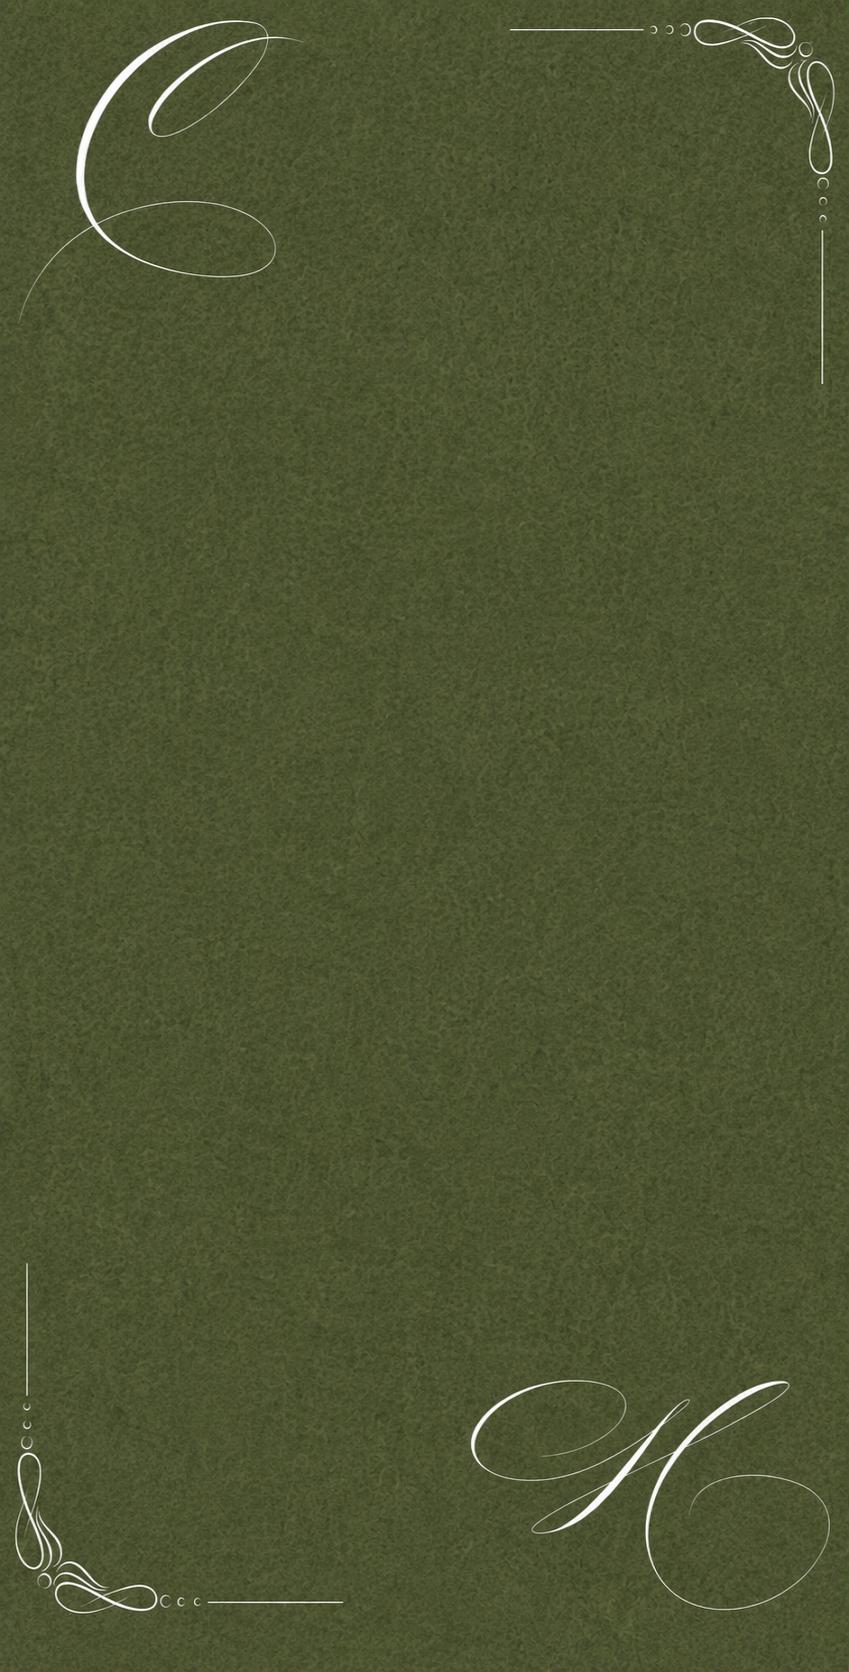
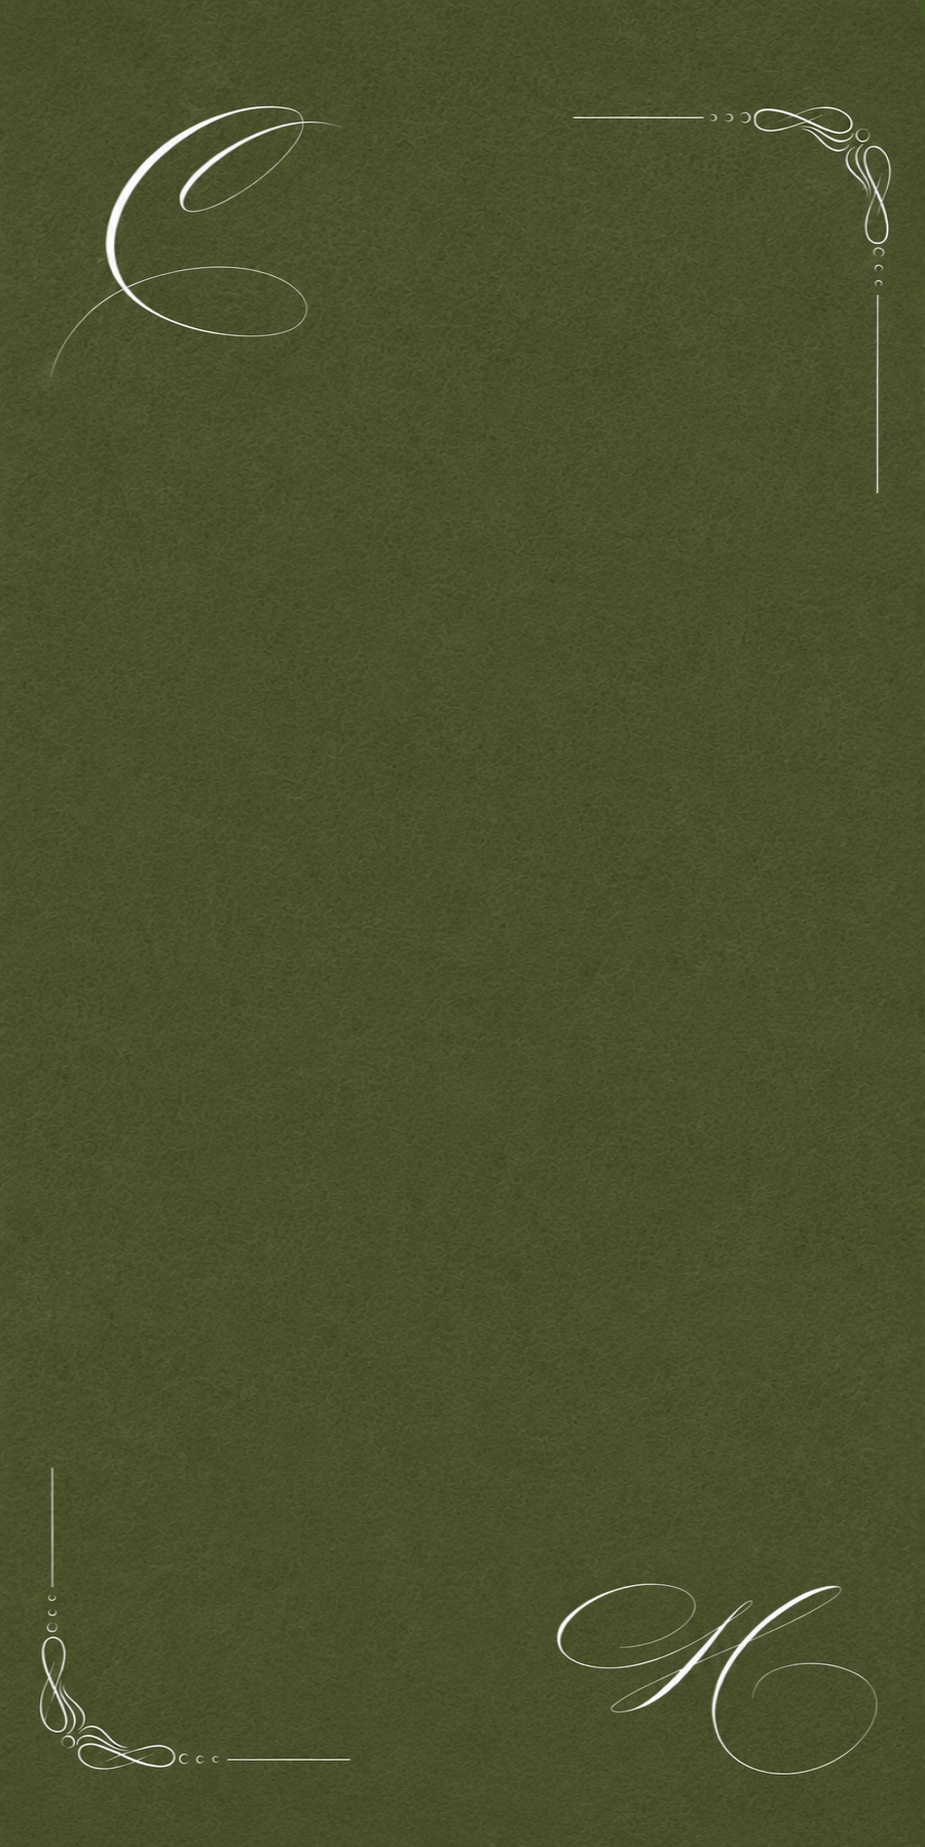
Family section layout, schedule update, protection fix & misc tweaks
- Family couple: split names per word, centred in each half, max-width 300px
- Couple names font size increased
- Background: portrait 100%/100%, landscape cover
- Timeline: 4 new events with EN/VI translations
- Footer: music credit converted to HTML comment
- protect.js: fix stray '1' breaking console warn

diff --git a/js/main.js b/js/main.js
@@ -218,15 +218,20 @@ const i18n = {
     'dress-value':          'Dress Your Best',
     'dress-sub':            'Formal Attire Requested',
     'timeline-title':       'Ceremony Schedule',
-    'ev-ceremony':          'Ceremony',
-    'ev-cocktail':          'Cocktail Hour',
-    'ev-cocktail-place':    'Garden Terrace',
-    'ev-reception':         'Reception',
+    'ev-time-1':            '10:00 AM',
+    'ev-time-2':            '11:00 AM',
+    'ev-time-3':            '11:30 AM',
+    'ev-time-4':            '1:00 PM',
+    'ev-welcome':           'Welcome Reception',
+    'ev-welcome-place':     'PhotoBooth & Backdrop Photography',
+    'ev-lunch':             'Lunch Serving',
+    'ev-ceremony':          'Ceremony Begins',
+    'ev-reception':         'Wedding Reception & Celebration',
     'rsvp-eyebrow':         'Kindly Reply At your convenience',
     'rsvp-title':           'Will You Join Us?',
     'label-name':           'Full Name',
     'ph-name':              'Your full name',
-    'label-side':           'Which side are you attending?',
+    'label-side':           'Which side are you attending with?',
     'opt-bride-side':       "Bride's Side",
     'opt-groom-side':       "Groom's Side",
     'label-phone':          'Phone Number',
@@ -238,7 +243,7 @@ const i18n = {
     'label-guests':         'Number of Guests',
     'ph-guests':            'Enter number of guests',
     'label-dietary':        'Leave us a message',
-    'ph-dietary':           'Spe cial request',
+    'ph-dietary':           'Special request',
     'btn-rsvp':             'Send RSVP',
     'footer-date':          'December 17, 2026 · Hanoi City',
     'footer-made':          'Your presence is truly the most meaningful gift on our special day.',
@@ -249,13 +254,17 @@ const i18n = {
     'family-groom-father':  'Mr. Le Van Sinh',
     'family-groom-mother':  'Mrs. Nguyen Thi Huong',
     'family-groom-name':    'Hung Le',
+    'family-groom-p1':      'Hung',
+    'family-groom-p2':      'Le',
     'family-bride-name':    'Cathy Chu',
+    'family-bride-p1':      'Cathy',
+    'family-bride-p2':      'Chu',
     'date-value-main':      'December 17',
     'venue-name':           'Long Vi Palace',
     'venue-sub':            '3A Dao Duy Anh st, Kim Lien, Hanoi · 12:00 PM',
   },
   vi: {
-    'hero-eyebrow':         'Chung vui cùng chúng mình trong ngày đặc biệt',
+    'hero-eyebrow':         'Celebrating our special day',
     'flap-date':            '17 · Tháng 12 · 2026',
     'scroll-cue':           'cuộn để mở',
     'wedding-date':         'Thứ Năm · 17 Tháng 12 · 2026',
@@ -272,10 +281,15 @@ const i18n = {
     'dress-value':          'Lịch Sự',
     'dress-sub':            'Trang phục trang trọng',
     'timeline-title':       'Chương trình chi tiết',
-    'ev-ceremony':          'Lễ Thành Hôn',
-    'ev-cocktail':          'Tiệc Cocktail',
-    'ev-cocktail-place':    'Sân Vườn',
-    'ev-reception':         'Tiệc Cưới',
+    'ev-time-1':            '10:00',
+    'ev-time-2':            '11:00',
+    'ev-time-3':            '11:30',
+    'ev-time-4':            '13:00',
+    'ev-welcome':           'Đón Khách',
+    'ev-welcome-place':     'PhotoBooth & Backdrop',
+    'ev-lunch':             'Khai Tiệc',
+    'ev-ceremony':          'Nghi Thức Thành Hôn',
+    'ev-reception':         'Tiệc Mừng & Giao Lưu',
     'rsvp-eyebrow':         'Kindly Reply At your convenience',
     'rsvp-title':           'Bạn Sẽ Tham Dự Chứ?',
     'label-name':           'Họ và Tên',
@@ -303,7 +317,11 @@ const i18n = {
     'family-groom-father':  'Ông Lê Văn Sinh',
     'family-groom-mother':  'Bà Nguyễn Thị Hương',
     'family-groom-name':    'Gia Hưng',
+    'family-groom-p1':      'Gia',
+    'family-groom-p2':      'Hưng',
     'family-bride-name':    'Cathy Hà Linh',
+    'family-bride-p1':      'Hà',
+    'family-bride-p2':      'Linh',
     'date-value-main':      '17 Tháng 12',
     'venue-name':           'Long Vĩ',
     'venue-sub':            '3A Phố Đào Duy Anh, Kim Liên, Hà Nội · 12:00 trưa',

diff --git a/css/style.css b/css/style.css
@@ -124,9 +124,14 @@ body::after {
   inset: 0;
   z-index: 0;
   background: url('../images/couple.png')
-    center / cover no-repeat;
+    center / 100% 100% no-repeat;
   opacity: 0;
   will-change: opacity;
+}
+@media (orientation: landscape) {
+  #couple-bg {
+    background-size: cover;
+  }
 }
 
 #particles {
@@ -137,7 +142,7 @@ body::after {
 }
 
 #hero {
-  height: 320vh;
+  height: 200vh;
   position: relative;
 }
 #hero-sticky {
@@ -480,14 +485,14 @@ body::after {
 #sec-family {
   background: var(--cream);
   text-align: center;
-  padding: clamp(56px, 9vw, 110px) clamp(20px, 5vw, 60px);
+  padding: clamp(28px, 4.5vw, 56px) clamp(20px, 5vw, 60px);
 }
 .family-grid {
   display: flex;
   align-items: flex-start;
   justify-content: center;
   max-width: 680px;
-  margin: 0 auto clamp(40px, 6vw, 64px);
+  margin: 0 auto clamp(20px, 3vw, 36px);
 }
 .family-side {
   flex: 1;
@@ -525,7 +530,7 @@ body::after {
   color: var(--warm);
   line-height: 1.9;
   max-width: 600px;
-  margin: 0 auto clamp(36px, 5vw, 58px);
+  margin: 0 auto clamp(18px, 2.5vw, 32px);
   opacity: .88;
 }
 .family-couple {
@@ -533,19 +538,35 @@ body::after {
   align-items: center;
   justify-content: center;
   gap: 0;
-  flex-wrap: wrap;
+  width: 100%;
+  max-width: 300px;
+  margin: 0 auto;
+}
+.family-bride-half {
+  flex: 1;
+  display: flex;
+  flex-direction: column;
+  align-items: center;
+  text-align: center;
+}
+.family-groom-half {
+  flex: 1;
+  display: flex;
+  flex-direction: column;
+  align-items: center;
+  text-align: center;
 }
 .family-groom,
 .family-bride {
   font-family: 'Madelyn', 'Great Vibes', cursive;
-  font-size: clamp(44px, 8vw, 78px);
+  font-size: clamp(56px, 10.5vw, 100px);
   color: #5E7848;
   line-height: 1.1;
 }
 .family-amp {
   font-family: 'Cormorant Garamond', serif;
   font-style: italic;
-  font-size: clamp(28px, 4.5vw, 50px);
+  font-size: clamp(36px, 6vw, 64px);
   color: var(--champ);
   margin: 0 clamp(10px, 2vw, 20px);
   line-height: 1;
@@ -945,6 +966,8 @@ footer {
 
 @media (max-width: 480px) {
   .fc-main { font-size: clamp(36px, 12vw, 56px); }
+  .family-name { font-size: 11px; letter-spacing: 0; }
+  .family-side { padding: 0 8px; }
 }
 
 .loader-lang-btns {

diff --git a/index.html b/index.html
@@ -142,9 +142,15 @@
     </div>
     <p class="family-message fu" data-i18n="family-message">Together with our families, we sincerely invite you to join us in celebrating our wedding ceremony and to share in the joy of this special occasion.</p>
     <div class="family-couple fu">
-      <span class="family-groom" data-i18n="family-groom-name">Hung Le</span>
+      <div class="family-bride-half">
+        <span class="family-bride" data-i18n="family-bride-p1">Cathy</span>
+        <span class="family-bride" data-i18n="family-bride-p2">Chu</span>
+      </div>
       <span class="family-amp">&amp;</span>
-      <span class="family-bride" data-i18n="family-bride-name">Cathy Chu</span>
+      <div class="family-groom-half">
+        <span class="family-groom" data-i18n="family-groom-p1">Hung</span>
+        <span class="family-groom" data-i18n="family-groom-p2">Le</span>
+      </div>
     </div>
   </section>
 
@@ -191,9 +197,9 @@
 
       <div class="tl-item fu">
         <div class="tl-content">
-          <div class="tl-time">3:00 PM</div>
-          <div class="tl-ev" data-i18n="ev-ceremony">Ceremony</div>
-          <div class="tl-place">[Ceremony Venue]</div>
+          <div class="tl-time" data-i18n="ev-time-1">10:00 AM</div>
+          <div class="tl-ev" data-i18n="ev-welcome">Welcome Reception</div>
+          <div class="tl-place" data-i18n="ev-welcome-place">PhotoBooth &amp; Backdrop Photography</div>
         </div>
         <div class="tl-dot"></div>
         <div class="tl-empty"></div>
@@ -203,20 +209,27 @@
         <div class="tl-empty"></div>
         <div class="tl-dot"></div>
         <div class="tl-content">
-          <div class="tl-time">4:30 PM</div>
-          <div class="tl-ev" data-i18n="ev-cocktail">Cocktail Hour</div>
-          <div class="tl-place" data-i18n="ev-cocktail-place">Garden Terrace</div>
+          <div class="tl-time" data-i18n="ev-time-2">11:00 AM</div>
+          <div class="tl-ev" data-i18n="ev-lunch">Lunch Serving</div>
         </div>
       </div>
 
       <div class="tl-item fu">
         <div class="tl-content">
-          <div class="tl-time">6:00 PM</div>
-          <div class="tl-ev" data-i18n="ev-reception">Reception</div>
-          <div class="tl-place">[Reception Venue]</div>
+          <div class="tl-time" data-i18n="ev-time-3">11:30 AM</div>
+          <div class="tl-ev" data-i18n="ev-ceremony">Ceremony Begins</div>
         </div>
         <div class="tl-dot"></div>
         <div class="tl-empty"></div>
+      </div>
+
+      <div class="tl-item fu">
+        <div class="tl-empty"></div>
+        <div class="tl-dot"></div>
+        <div class="tl-content">
+          <div class="tl-time" data-i18n="ev-time-4">1:00 PM</div>
+          <div class="tl-ev" data-i18n="ev-reception">Wedding Reception &amp; Celebration</div>
+        </div>
       </div>
 
     </div>
@@ -233,7 +246,7 @@
       </div>
 
       <div class="fg fu">
-        <label data-i18n="label-side">Which side are you attending?</label>
+        <label data-i18n="label-side">Which side are you attending with?</label>
         <select name="side" required>
           <option value="" disabled selected data-i18n="opt-select">Please select</option>
           <option value="bride" data-i18n="opt-bride-side">Bride's Side</option>
@@ -276,7 +289,7 @@
     <div class="ft-mono">C &amp; H</div>
     <p class="ft-text" data-i18n="footer-date">December 17, 2026 &middot; Hanoi City</p>
     <p class="ft-text ft-made" data-i18n="footer-made">Made with love</p>
-    <p class="ft-text ft-credit">Music: "Salut d'Amour - Elgar" — <a href="https://www.youtube.com/watch?v=8P6PFNNCrgs" target="_blank" rel="noopener">view original</a></p>
+    <!-- Music: "Salut d'Amour - Elgar" — https://www.youtube.com/watch?v=8P6PFNNCrgs -->
     <p class="ft-text ft-copyright">&copy; 2026 Hung Le. All rights reserved.</p>
   </footer>
 

diff --git a/js/protect.js b/js/protect.js
@@ -74,7 +74,7 @@
 
   function warnConsole() {
     console.clear();
-    console.log(1
+    console.log(
       '%c⛔ Stop!',
       'color:#C9A96E;font-size:52px;font-weight:bold;'
     );